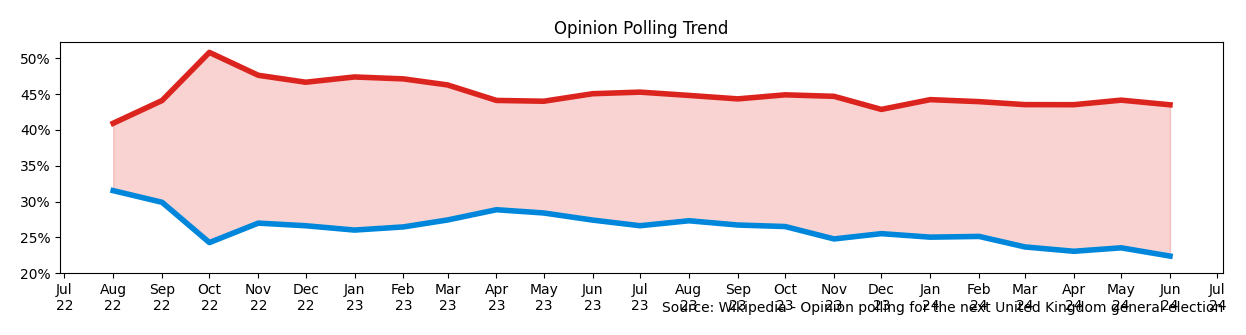
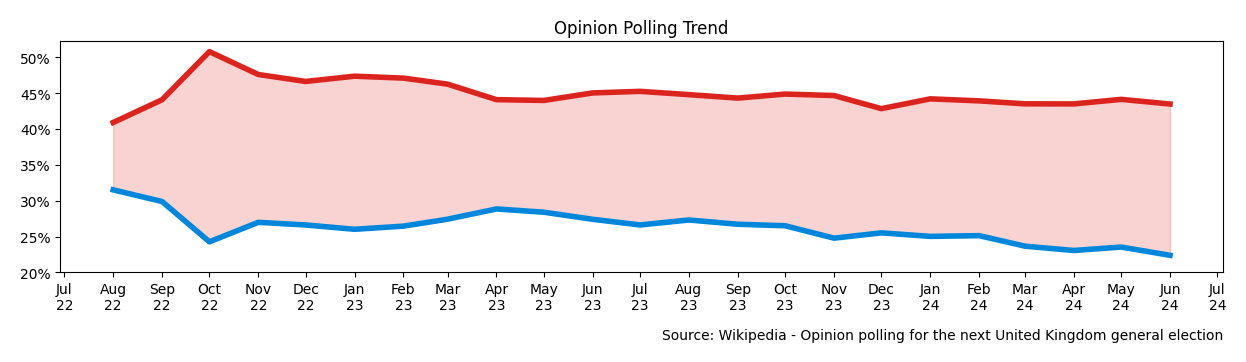
Fix image with 2 line months

diff --git a/main.py b/main.py
@@ -453,7 +453,7 @@ def main():
     plt.title(plot_title)
 
     source = 'Source: Wikipedia - Opinion polling for the next United Kingdom general election'
-    plt.annotate(source, (1, 0), (0, -20), xycoords='axes fraction', textcoords='offset points', va='top', ha='right')
+    plt.annotate(source, (1, 0), (0, -40), xycoords='axes fraction', textcoords='offset points', va='top', ha='right')
     fig.savefig(f'{web_files_location}/monthly_trend.png', bbox_inches='tight', pad_inches=0.2)
 
     from datetime import datetime, date, timedelta
